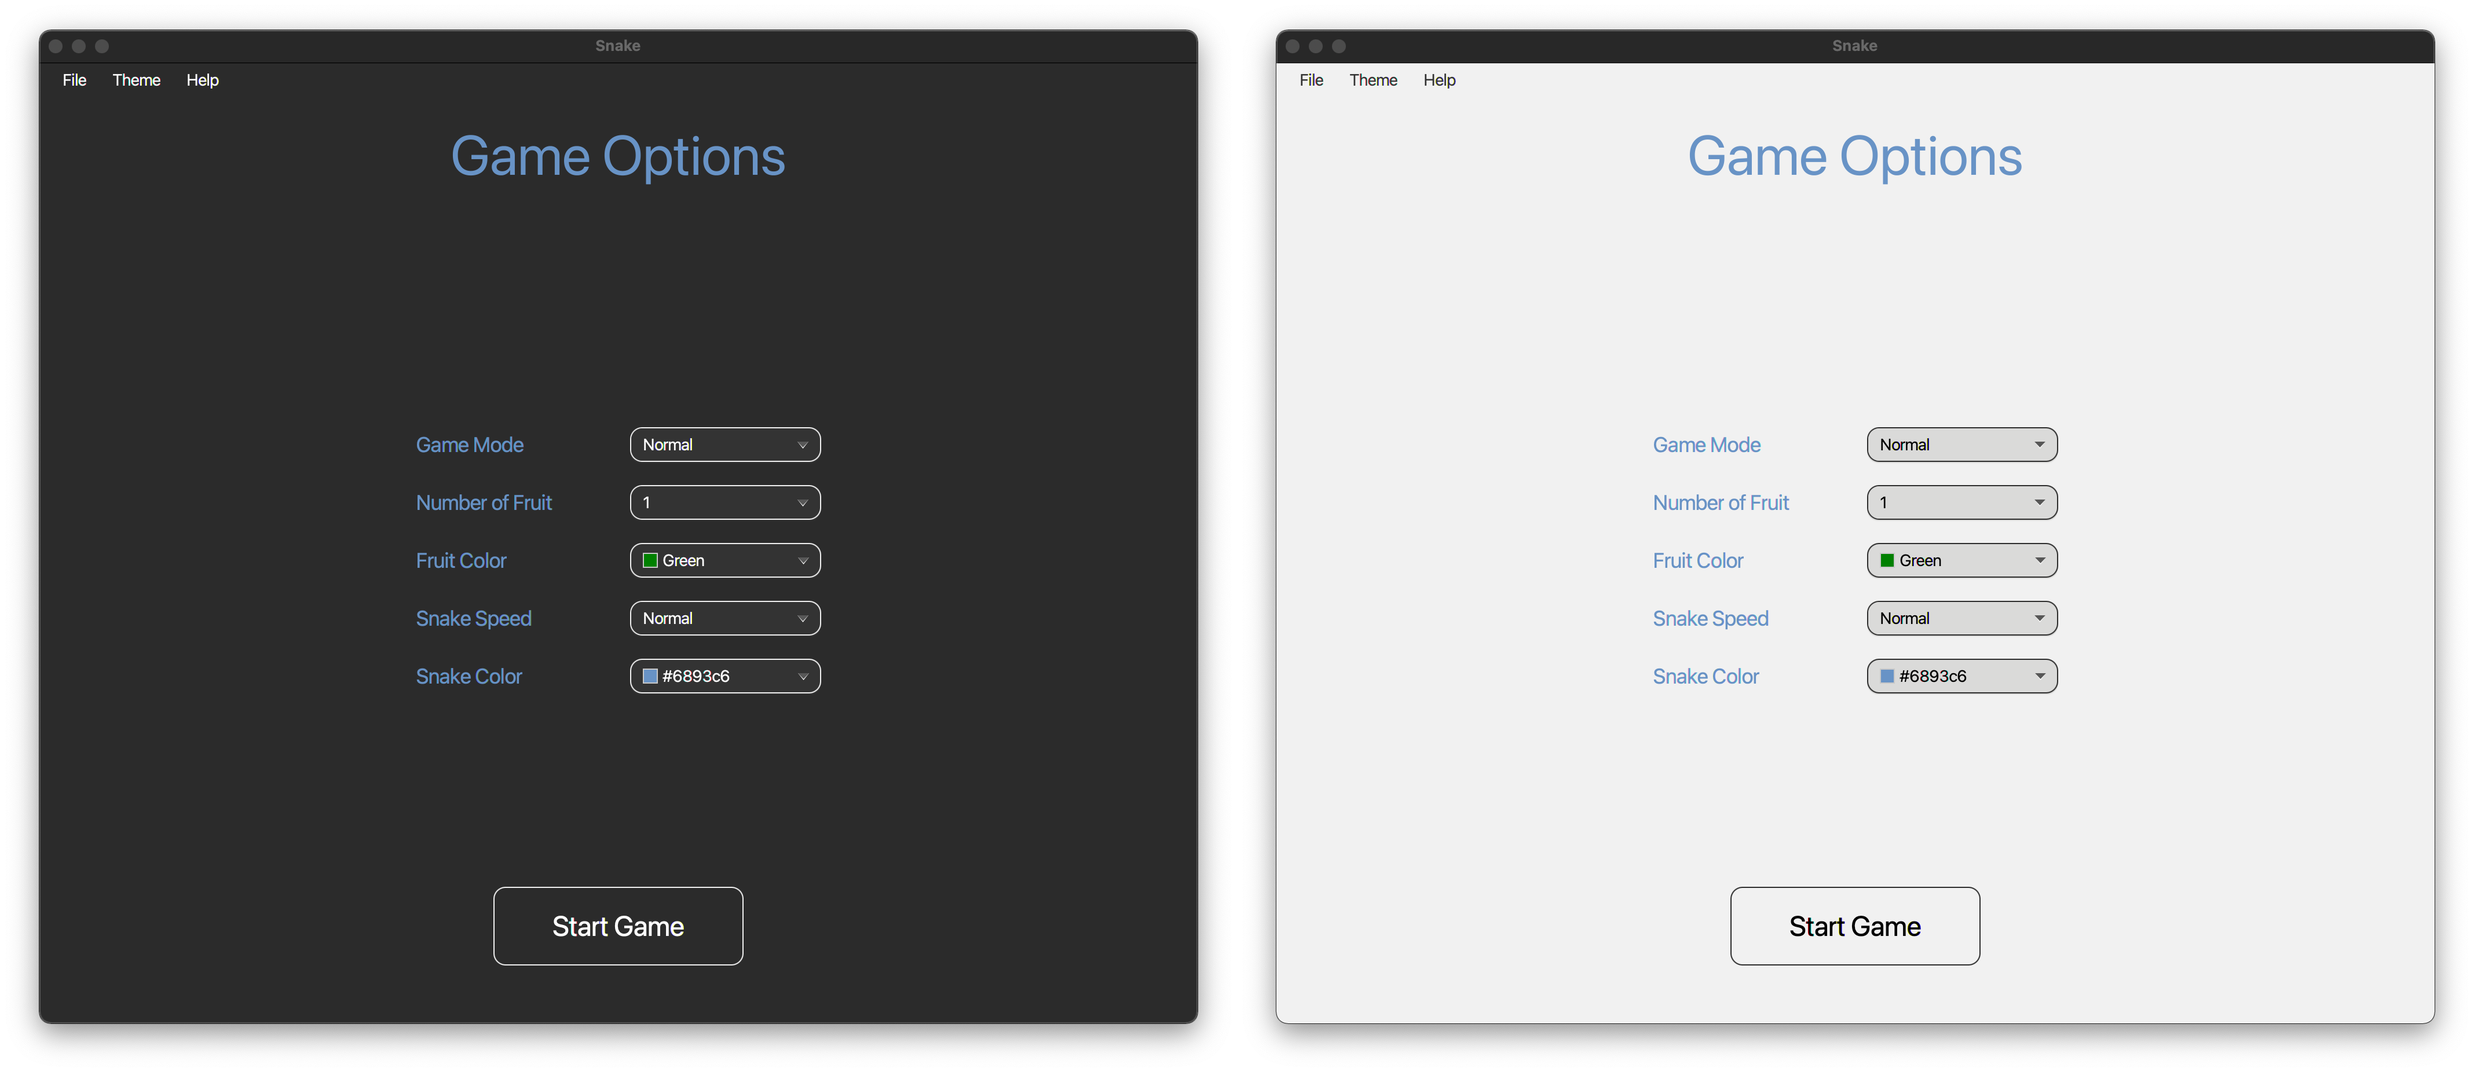
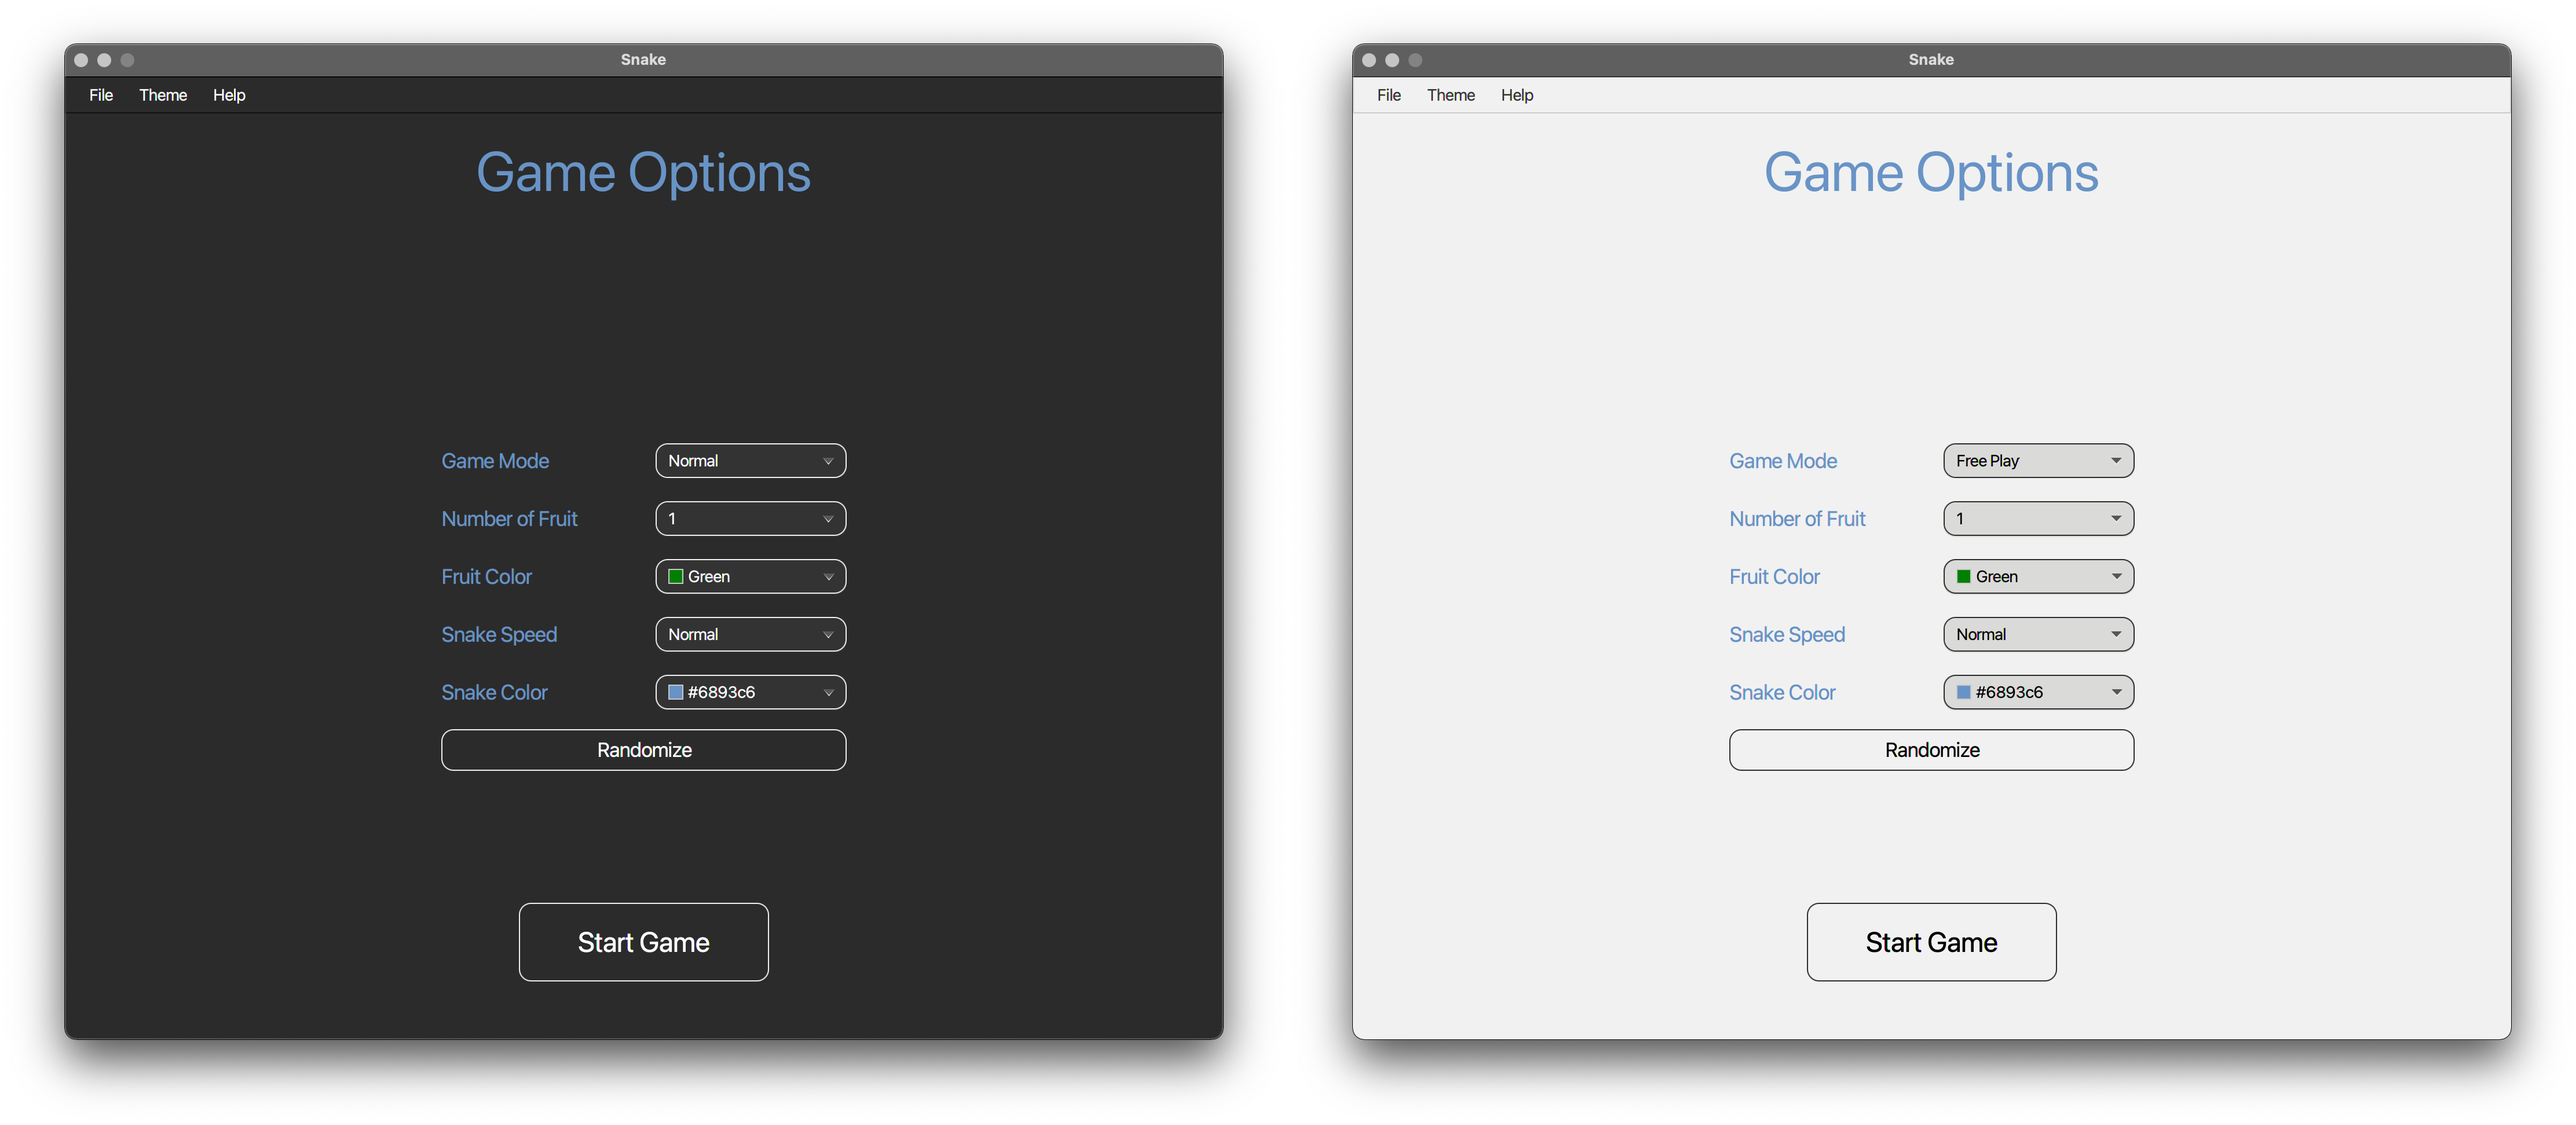
Updated README to display the randomize feature

diff --git a/README.md b/README.md
@@ -31,9 +31,9 @@ customizable game modes.
 ## Screenshots and GamePlay
 
 ![Start Pane](src/main/resources/com/amir/images/README%20images/start_pane.png)  
-![Start Pane](src/main/resources/com/amir/images/README%20images/options_pane.png)  
-![Start Pane](src/main/resources/com/amir/images/README%20images/game_pane_play.png)  
-![Start Pane](src/main/resources/com/amir/images/README%20images/game_play.gif)  
+![Options Pane](src/main/resources/com/amir/images/README%20images/options_pane.png)  
+![Game_Play Pane](src/main/resources/com/amir/images/README%20images/game_pane_play.png)  
+![Game Play](src/main/resources/com/amir/images/README%20images/game_play.gif)  
 
 ## Features
 
@@ -45,6 +45,7 @@ customizable game modes.
     * Change fruit color
     * Change snake speed
     * change snake color
+* Ability to randomize the game options
 * Ability to play again or change game options after the game is over
 
 ## Setup
